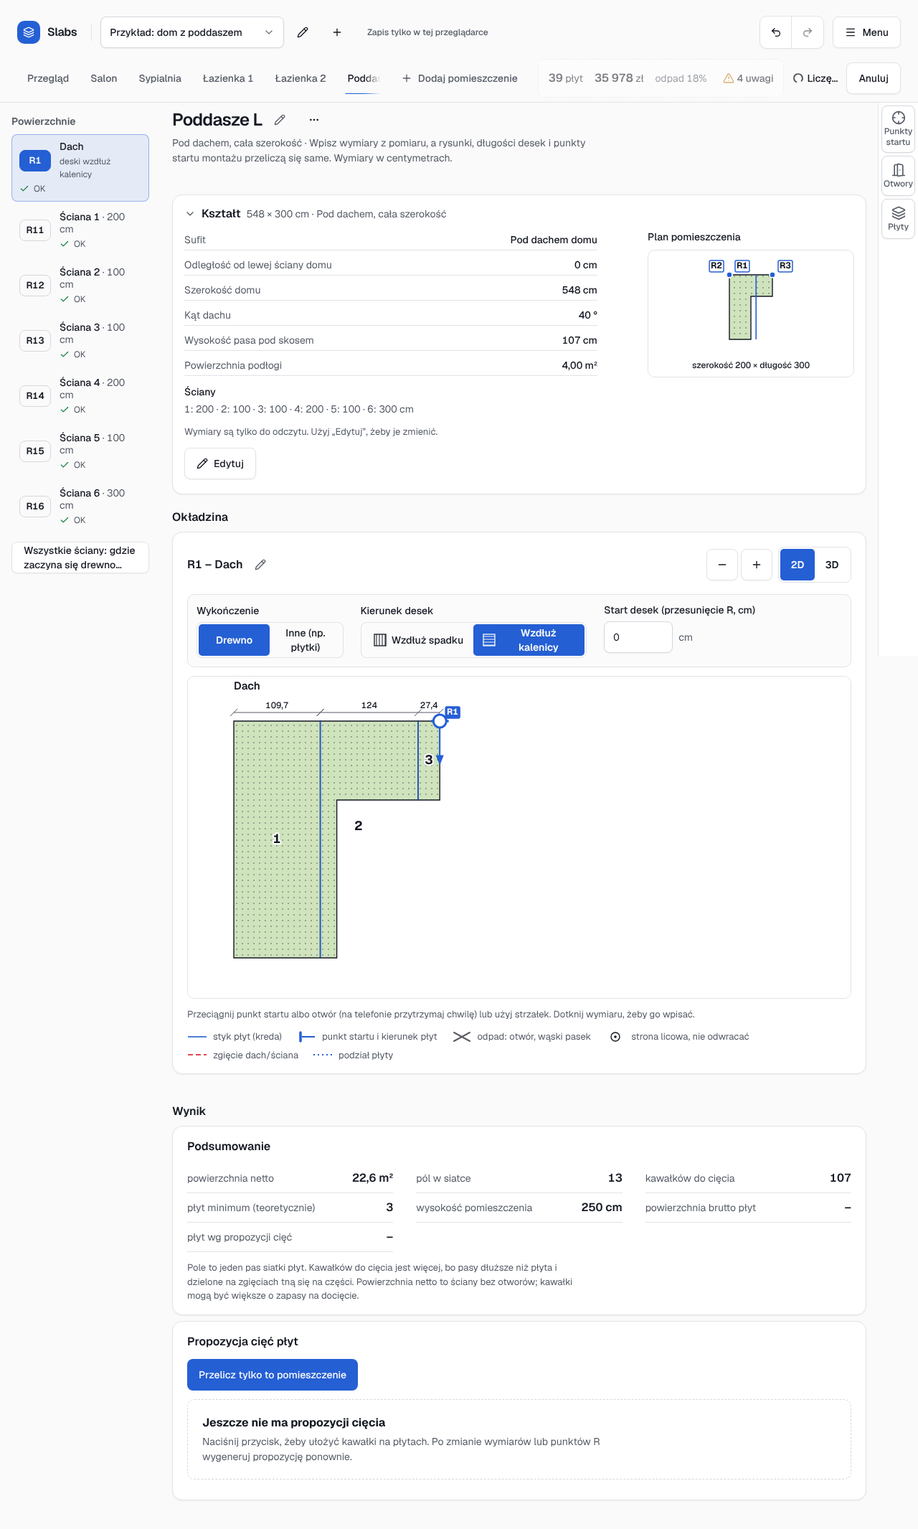
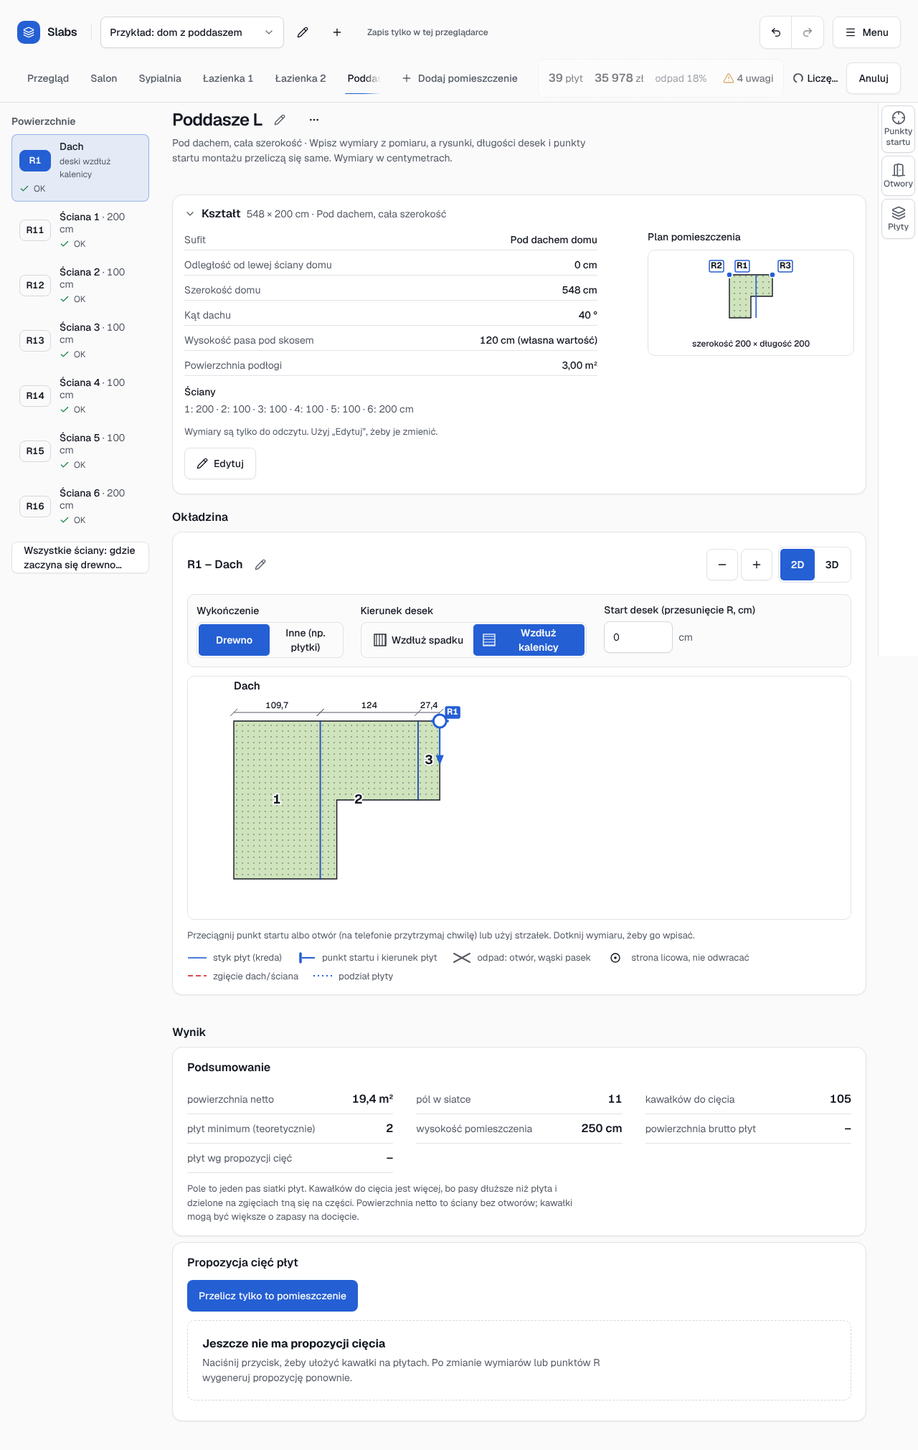
Wall lengths are typed freely; the shape is redrawn only when all walls are given and opposite sides add up

diff --git a/packages/web/src/components/OutlineEditor.tsx b/packages/web/src/components/OutlineEditor.tsx
@@ -1,70 +1,68 @@
-import { useEffect, useRef, useState } from 'react';
-import { bbox, edgesOf, setWallLength, wallStates, type Outline } from '@slabs/core';
-import { Lock, LockOpen } from 'lucide-react';
-import { Button } from '@/components/ui/button';
+import { useEffect, useMemo, useRef, useState } from 'react';
+import { balances, bbox, edgesOf, outlineFromLengths, type Outline } from '@slabs/core';
+import { Check, AlertTriangle } from 'lucide-react';
 import { nf, s } from '../i18n';
 import { cn } from '@/lib/utils';
 
-const SIZE = 340, PAD = 44;
+const SIZE = 360, PAD = 52;
 
 /**
- * The floor plan with the length of every wall on the drawing: click a length, type a number, the shape is redrawn (angles stay 90 degrees).
- * The lengths are real buttons / inputs placed over the drawing, so they work with keyboard and touch.
+ * Wall lengths typed on the drawing, in any order. The shape does not change while the numbers are incomplete: it is redrawn once every wall has a
+ * length and the walls on opposite sides add up (east = west, north = south). A live balance per direction tells what is still missing.
+ * `base` gives the directions of the walls (the grid shape); `initial` pre-fills the lengths (an existing room).
  */
-export function OutlineEditor({ outline, onChange }: { outline: Outline; onChange: (o: Outline) => void }) {
-  const [active, setActive] = useState<number | null>(null);
-  const [text, setText] = useState('');
-  const [bad, setBad] = useState(false);
-  // the walls the user has set, in the order they were set: they keep their length while the others are set
-  const [fixed, setFixed] = useState<number[]>([]);
-  const input = useRef<HTMLInputElement>(null);
-  const b = bbox(outline);
+export function OutlineEditor({ base, initial, onValid }: { base: Outline; initial?: number[]; onValid: (o: Outline | null) => void }) {
+  const [draft, setDraft] = useState<string[]>(() => base.map((_p, i) => (initial ? String(Math.round(initial[i]! * 10) / 10) : '')));
+  const es = useMemo(() => edgesOf(base), [base]);
+  const lens = useMemo(() => draft.map((t) => { const v = Number(t.replace(',', '.')); return t.trim() === '' || !isFinite(v) ? null : v; }), [draft]);
+  const valid = useMemo(() => outlineFromLengths(base, lens), [base, lens]);
+  const bal = useMemo(() => balances(base, lens), [base, lens]);
+  const last = useRef<Outline | null>(valid);
+  if (valid) last.current = valid;
+  const cb = useRef(onValid);
+  cb.current = onValid;
+  useEffect(() => { cb.current(valid); }, [valid]);
+  // the drawing keeps the last complete shape (the grid's, at first) until a new complete one exists
+  const shown = valid ?? last.current ?? base;
+  const b = bbox(shown);
   const k = Math.min((SIZE - 2 * PAD) / Math.max(b.w, 1), (SIZE - 2 * PAD) / Math.max(b.l, 1));
-  const X = (x: number) => PAD + (x - b.x0) * k, Y = (y: number) => SIZE - PAD - (y - b.y0) * k; // y up
-  const es = edgesOf(outline);
-  const states = wallStates(outline, fixed);
-  useEffect(() => { if (active !== null) input.current?.select(); }, [active]);
-  const commit = () => {
-    if (active === null) return;
-    const v = Number(text.replace(',', '.'));
-    const same = Math.abs(v - es[active]!.len) < 1e-6;
-    const next = setWallLength(outline, active, v, fixed);
-    if (!next) { setBad(true); return; }
-    setBad(false);
-    setActive(null);
-    setFixed((f) => (f.includes(active) ? f : [...f, active]));
-    if (!same) onChange(next);
-  };
+  const X = (x: number) => PAD + (x - b.x0) * k, Y = (y: number) => SIZE - PAD - (y - b.y0) * k;
+  const sh = edgesOf(shown);
+  const cx = X((b.x0 + b.x1) / 2), cy = Y((b.y0 + b.y1) / 2);
+  const axisOf = (i: number) => (Math.abs(es[i]!.d[0]) > 0.5 ? 0 : 1);
+  const missingAll = lens.filter((v) => v === null).length;
+  const bad = (i: number) => lens[i] !== null && lens[i]! < 10;
   return (
-    <div className="flex flex-col gap-2" data-outline-editor>
+    <div className="flex flex-col gap-3" data-outline-editor data-complete={valid ? 'yes' : 'no'}>
       <div className="relative mx-auto" style={{ width: SIZE, height: SIZE }}>
-        <svg viewBox={`0 0 ${SIZE} ${SIZE}`} width={SIZE} height={SIZE} role="img" aria-label={s.spec.plan} className="text-foreground">
-          <polygon points={outline.map((q) => `${X(q[0]).toFixed(1)},${Y(q[1]).toFixed(1)}`).join(' ')} style={{ fill: 'var(--r0)' }} stroke="currentColor" strokeWidth="2" strokeLinejoin="round" />
+        <svg viewBox={`0 0 ${SIZE} ${SIZE}`} width={SIZE} height={SIZE} role="img" aria-label={s.spec.plan} className={cn('text-foreground', !valid && 'opacity-80')}>
+          <polygon points={shown.map((q) => `${X(q[0]).toFixed(1)},${Y(q[1]).toFixed(1)}`).join(' ')} style={{ fill: 'var(--r0)' }} stroke="currentColor" strokeWidth="2" strokeLinejoin="round" strokeDasharray={valid ? undefined : '6 4'} />
         </svg>
-        {es.map((e) => {
+        {sh.map((e) => {
           const mx = (X(e.a[0]) + X(e.b[0])) / 2, my = (Y(e.a[1]) + Y(e.b[1])) / 2;
-          // the label sits outside the wall: away from the polygon's centre
-          const cx = X((b.x0 + b.x1) / 2), cy = Y((b.y0 + b.y1) / 2);
           const nx = e.d[1] !== 0 ? Math.sign(mx - cx) || 1 : 0, ny = e.d[0] !== 0 ? Math.sign(my - cy) || 1 : 0;
-          const left = mx + nx * 26, top = my + ny * 18;
-          const on = active === e.i, st = states[e.i]!;
-          return on ? (
-            <input key={e.i} ref={input} type="number" inputMode="decimal" aria-label={s.wiz.wallInput(e.i + 1)} aria-invalid={bad || undefined} value={text}
-              className={cn('absolute h-11 w-24 -translate-x-1/2 -translate-y-1/2 rounded-md border bg-card px-2 text-sm', bad && 'border-destructive')} style={{ left, top }}
-              onChange={(ev) => { setText(ev.target.value); setBad(false); }} onBlur={commit}
-              onKeyDown={(ev) => { if (ev.key === 'Enter') { ev.preventDefault(); commit(); } if (ev.key === 'Escape') { ev.stopPropagation(); setActive(null); setBad(false); } }} />
-          ) : (
-            <button key={e.i} type="button" data-wall={e.i} data-state={st} aria-disabled={st === 'derived' || undefined} aria-label={st === 'derived' ? s.wiz.wallDerived(e.i + 1, Math.round(e.len)) : st === 'fixed' ? s.wiz.wallFixed(e.i + 1, Math.round(e.len)) : s.wiz.wallLabel(e.i + 1, Math.round(e.len))}
-              onClick={() => { if (st === 'derived') { setBad(false); return; } setActive(e.i); setText(String(Math.round(e.len))); setBad(false); }}
-              className={cn('absolute inline-flex h-11 min-w-11 -translate-x-1/2 -translate-y-1/2 items-center justify-center gap-1 rounded-md border px-2 text-sm font-semibold tabular-nums outline-none focus-visible:ring-[3px] focus-visible:ring-ring/50', st === 'fixed' && 'border-primary bg-primary/10', st === 'free' && 'bg-card hover:bg-accent', st === 'derived' && 'cursor-default border-dashed bg-muted font-normal text-muted-foreground')} style={{ left, top }}>
-              {st === 'fixed' && <Lock className="size-3.5" aria-hidden="true" />}{st === 'derived' && <span aria-hidden="true">=</span>}{nf(Math.round(e.len))}
-            </button>
+          const unbalanced = missingAll === 0 && Math.abs(bal[axisOf(e.i)]!.diff) > 0.5;
+          return (
+            <input key={e.i} type="number" inputMode="decimal" data-wall={e.i} placeholder={`${e.i + 1}`} aria-label={s.wiz.wallInput(e.i + 1)} aria-invalid={bad(e.i) || undefined}
+              value={draft[e.i]} onChange={(ev) => setDraft((d) => d.map((v, j) => (j === e.i ? ev.target.value : v)))}
+              className={cn('absolute h-11 w-[5.5rem] -translate-x-1/2 -translate-y-1/2 rounded-md border bg-card px-2 text-center text-sm font-semibold tabular-nums outline-none focus-visible:ring-[3px] focus-visible:ring-ring/50', (unbalanced || bad(e.i)) && 'border-warning', draft[e.i] === '' && 'border-dashed')}
+              style={{ left: mx + nx * 40, top: my + ny * 26 }} />
           );
         })}
       </div>
-      <p className="mx-auto max-w-[44ch] text-center text-[13px] text-muted-foreground" data-outline-hint>{s.wiz.orderHint}</p>
-      {fixed.length > 0 && <div className="text-center"><Button variant="ghost" size="sm" className="min-h-11" data-a="unlock-walls" onClick={() => setFixed([])}><LockOpen />{s.wiz.unlock}</Button></div>}
-      {bad && <p className="text-center text-sm text-destructive" role="alert" data-wall-bad>{s.wiz.wallBad}</p>}
+      <ul className="mx-auto flex max-w-[48ch] flex-col gap-1 text-sm" data-balance aria-live="polite">
+        {bal.map((x) => {
+          const name = x.axis === 'x' ? s.wiz.axisX : s.wiz.axisY;
+          const ok = x.missing.length === 0 && Math.abs(x.diff) <= 0.5;
+          return (
+            <li key={x.axis} data-axis={x.axis} data-ok={ok} className={cn('flex items-start gap-2', ok ? 'text-foreground' : 'text-muted-foreground')}>
+              {ok ? <Check className="mt-0.5 size-4 shrink-0 text-success" aria-hidden="true" /> : <AlertTriangle className="mt-0.5 size-4 shrink-0 text-warning" aria-hidden="true" />}
+              <span>{name}: {x.missing.length ? s.wiz.balanceMissing(x.missing.map((i) => i + 1).join(', ')) : ok ? s.wiz.balanceOk(nf(Math.round(x.plus * 10) / 10)) : s.wiz.balanceDiff(nf(Math.round(x.plus * 10) / 10), nf(Math.round(x.minus * 10) / 10), nf(Math.abs(Math.round(x.diff * 10) / 10)))}</span>
+            </li>
+          );
+        })}
+      </ul>
+      <p className="mx-auto max-w-[48ch] text-center text-[13px] text-muted-foreground" data-outline-hint>{valid ? s.wiz.shapeReady : s.wiz.shapeWaits}</p>
     </div>
   );
 }

diff --git a/packages/web/src/components/RoomWizard.tsx b/packages/web/src/components/RoomWizard.tsx
@@ -38,17 +38,19 @@ export function RoomWizard() {
   const [roofH, setRoofH] = useState(107);
   const [cells, setCells] = useState<boolean[][]>(() => Array.from({ length: N }, () => Array(N).fill(false)));
   const [outline, setOutline] = useState<Outline | null>(null);
+  const [final, setFinal] = useState<Outline | null>(null);
   const [name, setName] = useState('');
   useEffect(() => {
     if (!open) return;
-    setStep('kind'); setKind('flat'); setHeight(250); setRoofH(projectHL); setName(''); setOutline(null);
+    setStep('kind'); setKind('flat'); setHeight(250); setRoofH(projectHL); setName(''); setOutline(null); setFinal(null);
     setCells(Array.from({ length: N }, (_v, r) => Array.from({ length: N }, (_w, c) => r >= 2 && r <= 3 && c >= 1 && c <= 2)));
   }, [open]);
   const shape = useMemo(() => cellsToOutline(cells, 100), [cells]);
   const STEPS = stepsOf(kind);
   const idx = STEPS.indexOf(step);
   const next = () => {
-    if (step === 'grid' && 'outline' in shape) setOutline(shape.outline);
+    if (step === 'grid' && 'outline' in shape) { setOutline(shape.outline); setFinal(null); }
+    if (step === 'dims' && final) setOutline(final); // the finished shape, with the lengths that were typed
     setStep(STEPS[idx + 1]!);
   };
   const create = () => {
@@ -102,7 +104,7 @@ export function RoomWizard() {
           <div className="flex flex-col gap-2" data-step="dims">
             <h3 className="text-base font-semibold">{s.wiz.dimsTitle}</h3>
             <p className="max-w-[56ch] text-sm text-muted-foreground">{s.wiz.dimsHelp}</p>
-            <OutlineEditor outline={outline} onChange={setOutline} />
+            <OutlineEditor base={outline} onValid={setFinal} />
           </div>
         )}
         {step === 'name' && (
@@ -119,7 +121,7 @@ export function RoomWizard() {
           <Button type="button" variant="outline" onClick={() => setWizardOpen(false)}>{s.wiz.cancel}</Button>
           {step === 'name'
             ? <Button type="button" data-a="wizard-create" onClick={create}>{s.wiz.create}</Button>
-            : <Button type="button" data-a="wizard-next" disabled={(step === 'grid' && !gridOk) || (step === 'height' && !heightOk)} onClick={next}>{s.wiz.next}</Button>}
+            : <Button type="button" data-a="wizard-next" disabled={(step === 'grid' && !gridOk) || (step === 'height' && !heightOk) || (step === 'dims' && !final)} onClick={next}>{s.wiz.next}</Button>}
         </div>
       </DialogContent>
     </Dialog>

diff --git a/packages/core/src/outline.ts b/packages/core/src/outline.ts
@@ -150,3 +150,46 @@ export function normalise(o: Outline): Outline {
   a.forEach((p, i) => { const q = a[best]!; if (p[1] < q[1] - EPS || (Math.abs(p[1] - q[1]) < EPS && p[0] < q[0])) best = i; });
   return a.map((_p, i) => a[(i + best) % a.length]!);
 }
+
+// ------------------------------------------------------------------ walls typed in any order, the shape follows once they are complete
+
+export type WallLens = Array<number | null>;
+export interface Balance {
+  axis: 'x' | 'y';
+  /** total of the walls that run in the positive / negative direction of the axis (the walls that are set) */
+  plus: number; minus: number;
+  /** plus - minus: 0 when the walls on opposite sides add up */
+  diff: number;
+  /** walls of this axis that have no length yet */
+  missing: number[];
+}
+
+/** How the walls of each direction add up: a closed outline needs east = west and north = south. */
+export function balances(base: Outline, lens: WallLens): Balance[] {
+  const es = edgesOf(base);
+  return (['x', 'y'] as const).map((axis) => {
+    const c = axis === 'x' ? 0 : 1;
+    let plus = 0, minus = 0;
+    const missing: number[] = [];
+    es.forEach((e, i) => {
+      if (Math.abs(e.d[c]) < 0.5) return;
+      const v = lens[i];
+      if (v === null || v === undefined || !isFinite(v)) { missing.push(i); return; }
+      if (e.d[c] > 0) plus += v; else minus += v;
+    });
+    return { axis, plus, minus, diff: plus - minus, missing };
+  });
+}
+
+/**
+ * The outline of `base` (its walls' directions) with the given lengths: null until every wall has a length of at least MIN_WALL, the walls on
+ * opposite sides add up (within half a centimetre) and the result is a valid room (no crossing walls).
+ */
+export function outlineFromLengths(base: Outline, lens: WallLens): Outline | null {
+  const es = edgesOf(base);
+  if (lens.length !== es.length || lens.some((v) => v === null || v === undefined || !isFinite(v) || v < MIN_WALL - EPS)) return null;
+  if (balances(base, lens).some((b) => Math.abs(b.diff) > 0.5)) return null;
+  const out: Outline = [[base[0]![0], base[0]![1]]];
+  for (let m = 0; m < es.length - 1; m++) { const p = out[m]!; out.push([p[0] + es[m]!.d[0] * lens[m]!, p[1] + es[m]!.d[1] * lens[m]!]); }
+  return validOutline(out) ? normalise(out) : null;
+}

diff --git a/packages/web/src/i18n/pl.ts b/packages/web/src/i18n/pl.ts
@@ -513,13 +513,20 @@ export const pl = {
     gridLabel: (r: number, c: number, on: boolean) => `Pole wiersz ${r}, kolumna ${c}: ${on ? 'podłoga' : 'puste'}`,
     gridErrors: { empty: 'Zaznacz przynajmniej jedno pole.', disconnected: 'Pola muszą się stykać bokami.', hole: 'Pomieszczenie nie może mieć dziury w środku.', pinch: 'Pola nie mogą stykać się tylko rogiem.' },
     dimsTitle: 'Wymiary ścian',
-    dimsHelp: 'Ściany mają na początku długość z siatki (1 pole = 1 m), kąty są proste. Kliknij wymiar na rysunku i wpisz długość ściany; kształt przerysuje się od razu.',
+    dimsHelp: 'Wpisz długość każdej ściany na rysunku, w dowolnej kolejności; kąty są proste. Rysunek pokazuje na razie kształt z siatki (1 pole = 1 m).',
     wallLabel: (n: number, len: number) => `Ściana ${n}: ${len} cm. Zmień długość`,
     wallInput: (n: number) => `Długość ściany ${n} (cm)`,
     wallFixed: (n: number, len: number) => `Ściana ${n}: ${len} cm, ustawiona. Zmień długość`,
     wallDerived: (n: number, len: number) => `Ściana ${n}: ${len} cm, wynika z pozostałych ścian`,
     orderHint: 'Ustawiaj ściany po kolei. Ustawiona ściana (z kłódką) już się nie zmienia; przerywana „=” wynika z pozostałych, bo obrys musi się domknąć. Żeby ją zmienić, odblokuj ściany.',
     unlock: 'Odblokuj wszystkie ściany',
+    axisX: 'Poziomo (prawo = lewo)',
+    axisY: 'Pionowo (góra = dół)',
+    balanceMissing: (n: string) => `podaj długość ścian: ${n}`,
+    balanceOk: (v: string) => `zgadza się (${v} cm z każdej strony)`,
+    balanceDiff: (a: string, b: string, d: string) => `${a} cm po jednej stronie, ${b} cm po drugiej, różnica ${d} cm`,
+    shapeWaits: 'Kształt przerysuje się, gdy podasz wszystkie ściany i przeciwległe boki się zsumują.',
+    shapeReady: 'Wymiary się zgadzają, kształt jest przerysowany.',
     wallBad: 'Tej długości nie da się wpisać: ściana byłaby krótsza niż 10 cm albo ściany by się przecięły.',
     nameTitle: 'Nazwa pomieszczenia',
     areasHelp: 'Teraz wybierz obszary okładziny: na stronie pomieszczenia zaznacz ścianę, podziel ją wysokością (np. drewno tylko u góry) albo oznacz jako inne wykończenie.',

diff --git a/packages/web/src/i18n/en.ts b/packages/web/src/i18n/en.ts
@@ -513,13 +513,20 @@ export const en: Strings = {
     gridLabel: (r: number, c: number, on: boolean) => `Cell row ${r}, column ${c}: ${on ? 'floor' : 'empty'}`,
     gridErrors: { empty: 'Mark at least one cell.', disconnected: 'The cells have to touch along their sides.', hole: 'The room cannot have a hole in the middle.', pinch: 'Cells cannot touch at a corner only.' },
     dimsTitle: 'Wall lengths',
-    dimsHelp: 'Walls start at the length from the grid (1 cell = 1 m) and the angles are right angles. Click a length on the drawing and type the wall length; the shape is redrawn at once.',
+    dimsHelp: 'Type the length of every wall on the drawing, in any order; the angles are right angles. For now the drawing shows the shape from the grid (1 cell = 1 m).',
     wallLabel: (n: number, len: number) => `Wall ${n}: ${len} cm. Change the length`,
     wallInput: (n: number) => `Length of wall ${n} (cm)`,
     wallFixed: (n: number, len: number) => `Wall ${n}: ${len} cm, set. Change the length`,
     wallDerived: (n: number, len: number) => `Wall ${n}: ${len} cm, follows from the other walls`,
     orderHint: 'Set the walls one by one. A wall you set (padlock) no longer changes; a dashed "=" one follows from the others because the outline has to close. To change it, unlock the walls.',
     unlock: 'Unlock all walls',
+    axisX: 'Horizontal (right = left)',
+    axisY: 'Vertical (top = bottom)',
+    balanceMissing: (n: string) => `give the length of walls: ${n}`,
+    balanceOk: (v: string) => `adds up (${v} cm on each side)`,
+    balanceDiff: (a: string, b: string, d: string) => `${a} cm on one side, ${b} cm on the other, difference ${d} cm`,
+    shapeWaits: 'The shape is redrawn once you give every wall and opposite sides add up.',
+    shapeReady: 'The dimensions add up, the shape is redrawn.',
     wallBad: 'That length is not possible: the wall would be shorter than 10 cm or walls would cross.',
     nameTitle: 'Name of the room',
     areasHelp: 'Next choose the cladding areas: on the room page select a wall, split it by height (e.g. wood only at the top) or mark it as another finish.',

diff --git a/packages/core/src/outline.test.ts b/packages/core/src/outline.test.ts
@@ -74,3 +74,38 @@ describe('setting walls one by one', () => {
     expect(setWallLength(o, 1, 100 - 95, [])).toBeNull();
   });
 });
+
+describe('walls typed in any order', () => {
+  const L = () => { const r = cellsToOutline([[true, false], [true, true]]); if (!('outline' in r)) throw new Error(); return r.outline; };
+  // the L has walls: east, north, west, north, west, south
+  it('nothing until every wall is given', async () => {
+    const { balances, outlineFromLengths } = await import('./outline');
+    const base = L();
+    expect(outlineFromLengths(base, [null, null, null, null, null, null])).toBeNull();
+    expect(outlineFromLengths(base, [300, 150, 100, 50, null, 200])).toBeNull();
+    expect(balances(base, [300, null, 100, 50, 200, 200])[1]!.missing).toEqual([1]);
+  });
+  it('a complete balanced set gives the shape with exactly those lengths', async () => {
+    const { balances, outlineFromLengths } = await import('./outline');
+    const base = L();
+    const lens = [300, 150, 100, 50, 200, 200]; // east 300 = west 100 + 200, north 150 + 50 = south 200
+    expect(balances(base, lens).map((x) => x.diff)).toEqual([0, 0]);
+    const o = outlineFromLengths(base, lens)!;
+    expect(o).not.toBeNull();
+    expect(validOutline(o)).toBe(true);
+    expect(edgesOf(o).map((e) => Math.round(e.len))).toEqual(lens);
+  });
+  it('an unbalanced set reports the difference and gives no shape', async () => {
+    const { balances, outlineFromLengths } = await import('./outline');
+    const base = L();
+    const lens = [300, 150, 100, 50, 200, 250];
+    expect(balances(base, lens).map((x) => x.diff)).toEqual([0, -50]);
+    expect(outlineFromLengths(base, lens)).toBeNull();
+  });
+  it('a wall under 10 cm gives no shape', async () => {
+    const { outlineFromLengths } = await import('./outline');
+    expect(outlineFromLengths(L(), [200, 150, 150, 50, 50, 200])).not.toBeNull();
+    expect(outlineFromLengths(L(), [205, 150, 195, 50, 10, 200])).not.toBeNull();
+    expect(outlineFromLengths(L(), [205, 150, 200, 50, 5, 200])).toBeNull();
+  });
+});

diff --git a/packages/web/src/components/ShapeBlock.tsx b/packages/web/src/components/ShapeBlock.tsx
@@ -38,7 +38,7 @@ export function ShapeBlock({ id, plan, editing, onEditing }: { id: RoomRef; plan
               )}
               <p className="max-w-[56ch] pt-2 text-sm text-muted-foreground">{s.wiz.dimsHelp}</p>
             </div>
-            <OutlineEditor outline={spec.outline} onChange={(o) => setOutline(id, o)} />
+            <OutlineEditor base={spec.outline} initial={edgesOf(spec.outline).map((e) => e.len)} onValid={(o) => { if (o && JSON.stringify(o) !== JSON.stringify(spec.outline)) setOutline(id, o); }} />
           </div>
         ) : <ShapeForm id={id} plan={plan} />}
         <div><Button data-a="shape-done" onClick={() => onEditing(false)}>{s.shapeView.done}</Button></div>

diff --git a/docs/STATUS.md b/docs/STATUS.md
@@ -384,7 +384,7 @@ The two sites keep **separate project storage**: a link from the Netlify site do
 * **Assumptions**: roof values of a free-plan room come from the project's house roof only (no per-room override yet); the left slope's boards are cut from the eave end (the right slope's from the ridge); a plan wider than the house is allowed but flagged; the roof surface has no knee-wall strip (the walls go up to the roof line instead); no flat cap over a free plan.
 * **Still open**: ceiling joined over the fold to chosen walls in a free-plan room; selecting several walls as one area; converting the old rooms to outlines.
 
-### Setting wall lengths one by one (fix)
+### Setting wall lengths one by one (fix; replaced by the next section)
 * Before, typing one wall silently changed the wall two steps on (the outline has to close), so lengths already typed moved. Now (`outline.ts`: `setWallLength(o, i, len, fixed)`, `partnerOf`, `wallStates`): a wall you set is **locked** (padlock) and keeps its length; the difference goes to the next **free parallel** wall; when only one free wall is left in a direction it is **calculated** (dashed "=", not editable); "Odblokuj wszystkie ściany" starts over. A length that would make a wall shorter than 10 cm or cross walls is refused with the reason. The lock state lives in the editor session (wizard step, or one "Edytuj"); a saved room does not remember which walls were typed.
 * Tests: `outline.test.ts` (set 1, 2, 3 in order, earlier ones unchanged; derived wall; refusals), e2e `spec.mjs` (lock, order, derived, unlock).
 
@@ -395,3 +395,7 @@ The two sites keep **separate project storage**: a link from the Netlify site do
 ### Height in the ready patterns; height limits explained
 * The ready patterns (picker) now ask for the height in the name step: floor to ceiling for flat ones (100–500 cm, default 250; wood zones that hang from the ceiling keep their height), the wall height under the slope for the ones under the roof (0–300 cm, default = project roof; a different value becomes the room's own `roof.HL`). Out of range: the reason and the range are shown and the button is disabled (before, Dalej was greyed without a message: 337 cm was refused silently).
 * The 300 cm limit comes from the preset roof models (artifact parity). A free-shaped room (wizard) has no such model: its roof-side height may be up to 500 cm.
+
+### Wall lengths: typed freely, the shape follows when complete (replaces locking)
+* In the wizard (step 4) and in "Edytuj" of a free-shaped room every wall has an input on the drawing; **nothing is adjusted while typing**. The drawing keeps the last complete shape (the grid's 1 m shape at first, dashed) until every wall has a length ≥ 10 cm **and** the walls on opposite sides add up (east = west, north = south, within 0.5 cm); then the shape is redrawn with exactly those lengths and "Dalej" is enabled. A live balance per direction names the walls still missing or the difference ("150 cm po jednej stronie, 200 po drugiej, różnica 50 cm"). Existing rooms pre-fill their lengths; changes are saved only when complete and balanced. Core: `balances`, `outlineFromLengths` (`outline.ts`); the older `setWallLength` / lock helpers stay in core but are no longer used by the UI.
+* Tests: `outline.test.ts`, e2e `spec.mjs` (shape unchanged while incomplete, difference shown, redraw and Dalej when balanced, Edytuj pre-fill).
